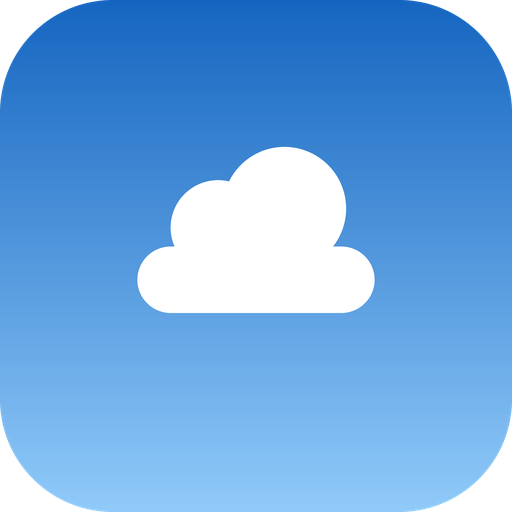
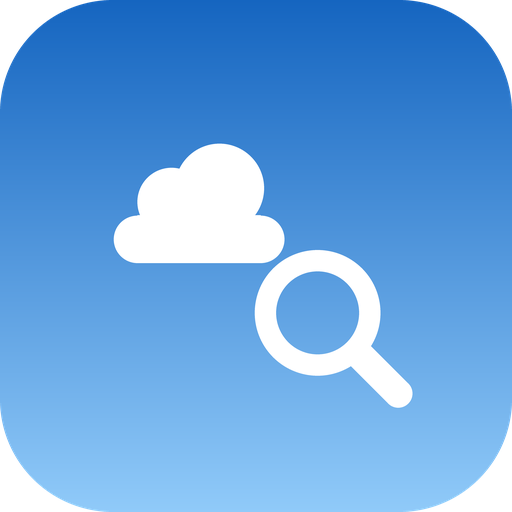
Prepare for Play release: SDK 36, new package ID, signing, 16 KB alignment, cloud info links
- compileSdk/targetSdk 36 (AGP 8.13.2, Gradle 8.14.3)
- applicationId com.medic.cloudweather; release signing read from git-ignored
  keystore.properties
- LiteRT 1.4.0, OpenCV 4.13.0, CameraX 1.4.2 so all arm64 native libs are
  16 KB aligned; drop unused tflite-support
- New logo: cloud + magnifying glass on a blue sky
- Tapping the cloud type opens its Wikipedia page
- Icon buttons use textTop gravity to close the icon/label gap

Changed region(s): [[0.2188, 0.2812, 0.8125, 0.8125]]

diff --git a/app/src/main/java/com/example/cloudweather/AnalysisActivity.kt b/app/src/main/java/com/example/cloudweather/AnalysisActivity.kt
@@ -3,6 +3,9 @@ package com.example.cloudweather
 import android.graphics.Bitmap
 import android.graphics.BitmapFactory
 import android.graphics.Matrix
+import android.content.ActivityNotFoundException
+import android.content.Intent
+import android.graphics.Paint
 import android.net.Uri
 import android.os.Bundle
 import android.util.Log
@@ -118,6 +121,11 @@ class AnalysisActivity : AppCompatActivity() {
                     } else {
                         precipitationResultTextView.setText(precipStringRes(result.precipClass))
                         cloudTypeResultTextView.text = cloudName(result.cloudType)
+                        cloudTypeResultTextView.paintFlags =
+                            cloudTypeResultTextView.paintFlags or Paint.UNDERLINE_TEXT_FLAG
+                        cloudTypeResultTextView.setOnClickListener {
+                            openInfoPage(result.cloudType)
+                        }
                         confidenceTextView.text = getString(
                             R.string.confidence_format, (result.confidence * 100).toInt()
                         )
@@ -136,6 +144,15 @@ class AnalysisActivity : AppCompatActivity() {
                     }
                 }
             }
+        }
+    }
+
+    private fun openInfoPage(cloudType: String) {
+        val url = CloudClassifier.infoUrl(cloudType) ?: return
+        try {
+            startActivity(Intent(Intent.ACTION_VIEW, Uri.parse(url)))
+        } catch (e: ActivityNotFoundException) {
+            Toast.makeText(this, R.string.no_browser, Toast.LENGTH_SHORT).show()
         }
     }
 

diff --git a/app/src/main/java/com/example/cloudweather/CloudClassifier.kt b/app/src/main/java/com/example/cloudweather/CloudClassifier.kt
@@ -8,6 +8,18 @@ object CloudClassifier {
     /** Precipitation level per cloud type, same order as [cloudTypes]. */
     val precipClasses = intArrayOf(1, 1, 0, 0, 0, 3, 1, 2, 1, 1)
 
+    private val wikiPages = mapOf(
+        "Ac" to "Altocumulus_cloud", "As" to "Altostratus_cloud",
+        "Cc" to "Cirrocumulus_cloud", "Cs" to "Cirrostratus_cloud",
+        "Ci" to "Cirrus_cloud", "Cb" to "Cumulonimbus_cloud",
+        "Cu" to "Cumulus_cloud", "Ns" to "Nimbostratus_cloud",
+        "Sc" to "Stratocumulus_cloud", "St" to "Stratus_cloud"
+    )
+
+    /** Web page describing a cloud type, or null for an unknown code. */
+    fun infoUrl(cloudType: String): String? =
+        wikiPages[cloudType]?.let { "https://en.wikipedia.org/wiki/$it" }
+
     /** Below this top-class probability the result is shown as a low-confidence guess. */
     const val LOW_CONFIDENCE = 0.5f
 

diff --git a/app/src/test/java/com/example/cloudweather/CloudClassifierTest.kt b/app/src/test/java/com/example/cloudweather/CloudClassifierTest.kt
@@ -40,4 +40,12 @@ class CloudClassifierTest {
     fun labelTablesStayAligned() {
         assertEquals(CloudClassifier.cloudTypes.size, CloudClassifier.precipClasses.size)
     }
+
+    @Test
+    fun everyCloudTypeHasAnInfoUrl() {
+        CloudClassifier.cloudTypes.forEach {
+            assertTrue(CloudClassifier.infoUrl(it)!!.startsWith("https://"))
+        }
+        assertNull(CloudClassifier.infoUrl("??"))
+    }
 }
